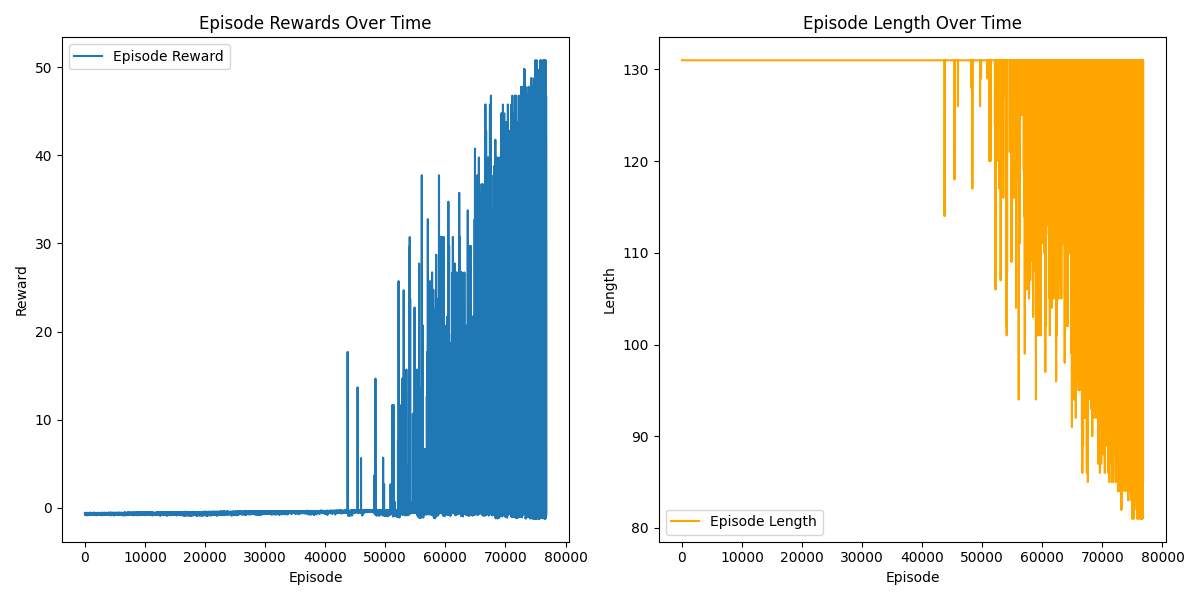
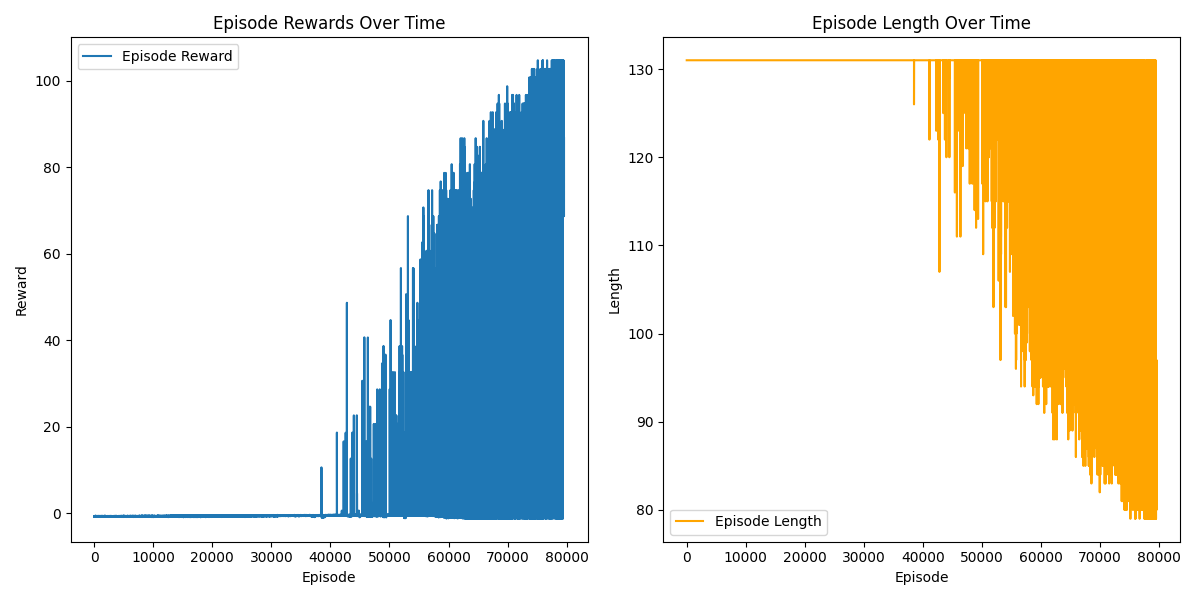
tried ppo with new condition

diff --git a/scripts/rotation_operators_strong_v1.py b/scripts/rotation_operators_strong_v1.py
@@ -1,0 +1,300 @@
+# Attempt to improve the performance of v2
+import numpy as np
+import gymnasium as gym
+from gymnasium import spaces
+from stable_baselines3 import PPO
+import torch.nn as nn
+import matplotlib.pyplot as plt
+import os
+from stable_baselines3.common.monitor import Monitor
+from stable_baselines3.common.callbacks import BaseCallback
+from stable_baselines3.common.vec_env import SubprocVecEnv, VecNormalize
+import json
+from tqdm import tqdm
+
+# Define the rotation gates
+def rotation_gate(axis, angle):
+    if axis == 'x':
+        return np.array([[np.cos(angle / 2), -1j * np.sin(angle / 2)],
+                         [-1j * np.sin(angle / 2), np.cos(angle / 2)]], dtype=complex)
+    elif axis == 'y':
+        return np.array([[np.cos(angle / 2), -np.sin(angle / 2)],
+                         [np.sin(angle / 2), np.cos(angle / 2)]], dtype=complex)
+    elif axis == 'z':
+        return np.array([[np.exp(-1j * angle / 2), 0],
+                         [0, np.exp(1j * angle / 2)]], dtype=complex)
+
+gate_descriptions = ["rxp", "rxn", "ryp", "ryn", "rzp", "rzn"]
+gate_matrices = [
+    rotation_gate('x', np.pi / 128),    # rxp
+    rotation_gate('x', -np.pi / 128),   # rxn
+    rotation_gate('y', np.pi / 128),    # ryp
+    rotation_gate('y', -np.pi / 128),   # ryn
+    rotation_gate('z', np.pi / 128),    # rzp
+    rotation_gate('z', -np.pi / 128)    # rzn
+]
+
+# Generate Haar random target unitary matrix
+def get_haar_random_unitary():
+    z = (np.random.randn(2, 2) + 1j * np.random.randn(2, 2)) / np.sqrt(2)
+    q, r = np.linalg.qr(z)
+    d = np.diagonal(r)
+    ph = d / np.abs(d)
+    return q @ np.diag(ph)
+
+def make_env():
+    def _init():
+        env = QuantumCompilerEnv(gate_set=gate_matrices, tolerance=0.98)
+        env = Monitor(env)  # Wrap each individual environment with Monitor
+        return env
+    return _init
+
+# Define the RL environment
+class QuantumCompilerEnv(gym.Env):
+    def __init__(self, gate_set, tolerance=0.99, target_U=None):
+        super(QuantumCompilerEnv, self).__init__()
+        self.gate_set = gate_set
+        self.tolerance = tolerance
+        self.target_U = target_U
+        self.action_space = spaces.Discrete(len(gate_set))  # Select one of the rotation gates
+        self.observation_space = spaces.Box(low=-1, high=1, shape=(8,), dtype=np.float32)  # Adjusted bounds
+        self.max_steps = 300
+        self.reset()
+
+    def reset(self, *, seed=None, options=None):
+        super().reset(seed=seed)
+        self.current_step = 0
+        self.U_n = np.eye(2, dtype=complex)
+        # If a specific target_U is provided, use it; otherwise, generate a random one
+        if self.target_U is None:
+            self.target_U = get_haar_random_unitary()
+        self.O_n = np.dot(np.linalg.inv(self.U_n), self.target_U)
+        return self._get_observation(), {}
+    
+    def step(self, action):
+        gate = self.gate_set[action]
+        self.U_n = np.dot(self.U_n, gate)
+        self.O_n = np.dot(np.linalg.inv(self.U_n), self.target_U)
+        reward = self._compute_reward()
+        done = self._check_done()
+        obs = self._get_observation()
+        self.current_step += 1
+        info = {}
+        truncated = False
+        return obs, reward, done, truncated, info
+
+    def _get_observation(self):
+        obs = np.concatenate([self.O_n.real.flatten(), self.O_n.imag.flatten()])
+        return obs.astype(np.float32)
+
+    def _compute_reward(self):
+        L = self.max_steps
+        n = self.current_step
+        fidelity = self.average_gate_fidelity(self.U_n, self.target_U)
+        distance = 1 - fidelity
+
+        if fidelity >= self.tolerance:
+            reward = (L - n) + 1  # Encourage shorter sequences
+        else:
+            reward = -distance / L
+        # consider reshape the reward by adding a new penalty term (e.g. -0.001 to prevent taking more steps)
+        # reward -= 0.1
+        return reward
+
+    def _check_done(self):
+        fidelity = self.average_gate_fidelity(self.U_n, self.target_U)
+        if fidelity >= self.tolerance or self.current_step >= self.max_steps:
+            return True
+        else:
+            return False
+
+    def average_gate_fidelity(self, U, V):
+        d = U.shape[0]
+        U_dagger = np.conjugate(U.T)
+        trace_U_dagger_V = np.trace(np.dot(U_dagger, V))
+        fidelity = (np.abs(trace_U_dagger_V)**2 + d) / (d * (d + 1))
+        return fidelity
+
+class PlottingCallback(BaseCallback):
+    def __init__(self, verbose=1, save_path=None):
+        super(PlottingCallback, self).__init__(verbose)
+        self.save_path = save_path  # Path to save the plots
+        self.num_envs = None
+        self.current_rewards = None
+        self.current_lengths = None
+        self.episode_rewards = []
+        self.episode_lengths = []
+        self.episode_count = 0  # To track episode count
+        self.total_timesteps = 0 
+
+    def _on_training_start(self):
+        self.num_envs = self.training_env.num_envs
+        self.current_rewards = np.zeros(self.num_envs)
+        self.current_lengths = np.zeros(self.num_envs)
+        self.total_timesteps = 0
+
+    def _on_step(self) -> bool:
+        rewards = self.locals['rewards']
+        dones = self.locals['dones']
+        self.total_timesteps += self.locals['n_steps']
+
+        self.current_rewards += rewards
+        self.current_lengths += 1
+
+        for i in range(self.num_envs):
+            if dones[i]:
+                # Episode finished for environment i
+                self.episode_count += 1
+                self.episode_rewards.append(self.current_rewards[i])
+                self.episode_lengths.append(self.current_lengths[i])
+
+                if self.verbose > 0:
+                    print(f"Env {i}: Episode {self.episode_count}, Reward: {self.current_rewards[i]}, Length: {self.current_lengths[i]}, Timesteps per Total Timesteps: {self.total_timesteps}")
+
+
+                # Reset the counters
+                self.current_rewards[i] = 0
+                self.current_lengths[i] = 0
+        return True
+
+    def _on_training_end(self) -> None:
+        plt.figure(figsize=(12, 6))
+
+        # Plotting episode rewards over time
+        plt.subplot(1, 2, 1)
+        plt.plot(self.episode_rewards, 
+                 linestyle='None',
+                 marker='.',
+                 label="Episode Reward")
+        plt.title("Episode Rewards Over Time")
+        plt.xlabel("Episode")
+        plt.ylabel("Reward")
+        plt.legend()
+
+        # Plotting episode lengths over time
+        plt.subplot(1, 2, 2)
+        plt.plot(self.episode_lengths, 
+                linestyle='None',
+                marker='.',
+                color='orange',
+                label="Episode Length")
+        plt.title("Episode Length Over Time")
+        plt.xlabel("Episode")
+        plt.ylabel("Length")
+        plt.legend()
+
+        plt.tight_layout()
+
+        # Save plots if a save path is provided
+        if self.save_path:
+            os.makedirs(self.save_path, exist_ok=True)  # Ensure directory exists
+            plt.savefig(os.path.join(self.save_path, "rotation_operator_strong_v1.png"))
+
+        plt.close()
+
+def matrix_to_readable_string(matrix, precision=9):
+    """Convert a complex matrix to a human-readable string."""
+    lines = []
+    for row in matrix:
+        row_str = '['
+        for elem in row:
+            real_part = f"{elem.real:.{precision}f}"
+            imag_part = f"{elem.imag:.{precision}f}"
+            if elem.imag >= 0:
+                elem_str = f"{real_part}+{imag_part}j"
+            else:
+                elem_str = f"{real_part}{imag_part}j"
+            row_str += f"{elem_str}, "
+        row_str = row_str.rstrip(', ') + ']'
+        lines.append(row_str)
+    return ''.join(lines)
+
+    
+def evaluate_agent(model, target_unitaries, env_class, output_file='rotation_operator_strong_v1.jsonl'):
+    success_count = 0
+    total_episodes = len(target_unitaries)
+    # Create a single environment instance
+    env = env_class(gate_set=gate_matrices, tolerance=0.98)
+    buffer_size = 100
+    buffer = []
+    with open(output_file, 'w', buffering=8192) as f:
+        for idx, target_U in enumerate(tqdm(target_unitaries, desc="Evaluating")):
+            env.target_U = target_U 
+            obs, _ = env.reset()
+            done = False
+            gate_sequence = []
+            while not done:
+                action, _ = model.predict(obs, deterministic=True)
+                gate_sequence.append(action)
+                obs, reward, terminated, truncated, _ = env.step(action)
+                done = terminated or truncated
+            # Recompute approximate_U from gate_sequence
+            fidelity = env.average_gate_fidelity(env.U_n, env.target_U)
+            success = fidelity >= env.tolerance
+            if success:
+                success_count += 1
+            sequence_length = len(gate_sequence)
+            approximate_U = np.eye(2, dtype=complex)
+            gate_descriptions_list = []
+            for action in gate_sequence:
+                gate = env.gate_set[action]
+                gate_descriptions_list.append(gate_descriptions[action])
+                approximate_U = np.dot(approximate_U, gate)
+            result = {
+                'index': idx,
+                'fidelity': fidelity,
+                'success': bool(success),
+                'sequence_length': sequence_length,
+                'gate_sequence': gate_descriptions_list,
+                'target_U': matrix_to_readable_string(env.target_U),
+                'approximate_U': matrix_to_readable_string(approximate_U)
+            }
+            buffer.append(json.dumps(result))
+            if len(buffer) >= buffer_size:
+                f.write('\n'.join(buffer) + '\n')  # Write all results in buffer
+                buffer.clear()
+        if buffer:
+            f.write('\n'.join(buffer) + '\n')  # Write remaining results in buffer
+
+    success_rate = success_count / total_episodes
+    return success_rate
+
+
+policy_kwargs = dict(
+    net_arch=[128, 128],
+    activation_fn=nn.SELU,
+)
+
+if __name__ == '__main__':
+    # Set random seeds for reproducibility
+    import torch
+    torch.manual_seed(42)
+    np.random.seed(42)
+    
+    # Create environments and normalize observations
+    num_envs = 40  # Adjusted number of environments
+    agent_steps = 1000000
+    envs = SubprocVecEnv([make_env() for _ in range(num_envs)])
+    # envs = VecNormalize(envs, norm_obs=True, norm_reward=False, clip_obs=10.)
+    
+    # Define the PPO model
+    model = PPO('MlpPolicy',
+                envs,
+                policy_kwargs=policy_kwargs,
+                learning_rate=1e-4,
+                batch_size=128,
+                ent_coef=0.01,
+                # device='cuda',
+                verbose=1)
+    # Define the custom plotting callback
+    plotting_callback = PlottingCallback(save_path='./data')
+    
+    # Train the model with the PlottingCallback
+    model.learn(total_timesteps=agent_steps*num_envs, log_interval=100, callback=plotting_callback)
+    
+    # Evaluate the agent
+    num_test_targets = 10000# Testing with 1 million targets
+    target_unitaries = [get_haar_random_unitary() for _ in range(num_test_targets)]
+    eval_env_class = QuantumCompilerEnv
+    success_rate = evaluate_agent(model, target_unitaries, eval_env_class, output_file='rotation_operator_strong_v1.jsonl')
+    print(f'Success rate: {success_rate * 100:.2f}%')

diff --git a/scripts/fixed_target_dqn_strong_v1.py b/scripts/fixed_target_dqn_strong_v1.py
@@ -80,7 +80,7 @@ class QuantumCompilerEnv(gym.Env):
         distance = 1 - fidelity
         
         if distance < (1 - self.tolerance):
-            reward = (L - n) + 1
+            reward = 2*(L - n) + 1
         else:
             reward = - distance / L
         return reward
@@ -181,7 +181,7 @@ def evaluate_agent(model, env, num_episodes=10):
 
 
 if __name__ == '__main__':
-    env = QuantumCompilerEnv(gate_set=gate_matrices, tolerance=0.99)
+    env = QuantumCompilerEnv(gate_set=gate_matrices, tolerance=0.98)
     env = Monitor(env)
     model = DQN(
         'MlpPolicy',
